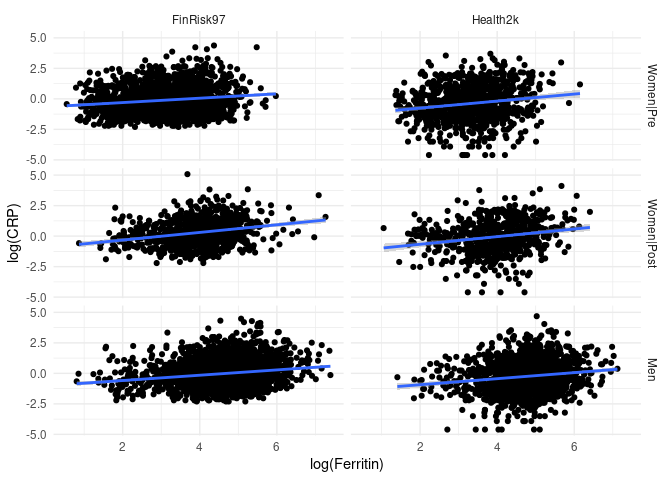
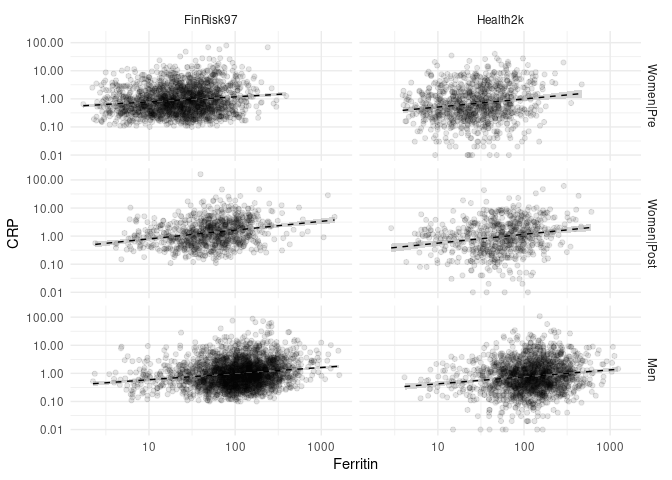
improve scatter plot

diff --git a/src/publication_content.md b/src/publication_content.md
@@ -116,10 +116,13 @@
     ##   Men             2603     1710 4313
     ##   Sum             5402     3314 8716
 
-    ggplot(data = fer_srh_crp, aes(x = log(Ferritin), y = log(CRP))) + 
-        geom_point() +
+    options(scipen = 10000)
+    ggplot(data = fer_srh_crp, aes(x = Ferritin, y = CRP)) + 
+        geom_point(alpha = 0.1) +
+        scale_x_log10() +
+        scale_y_log10() +
         theme_minimal() + 
-        geom_smooth(method = "lm") +
+        geom_smooth(method = "lm", color = "black", linetype = "dashed", size = 0.5) +
         facet_grid(rows = vars(Group), cols = vars(Cohort))
 
 ![](publication_content_files/figure-markdown_strict/scatterplot_separated-1.png)
